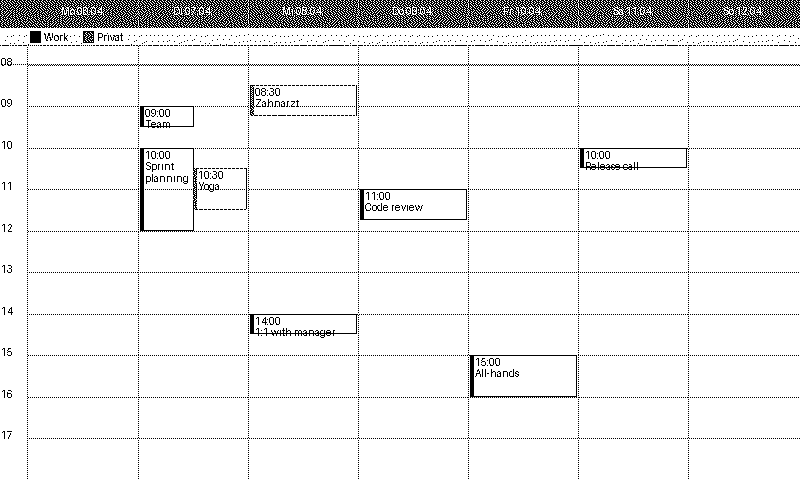
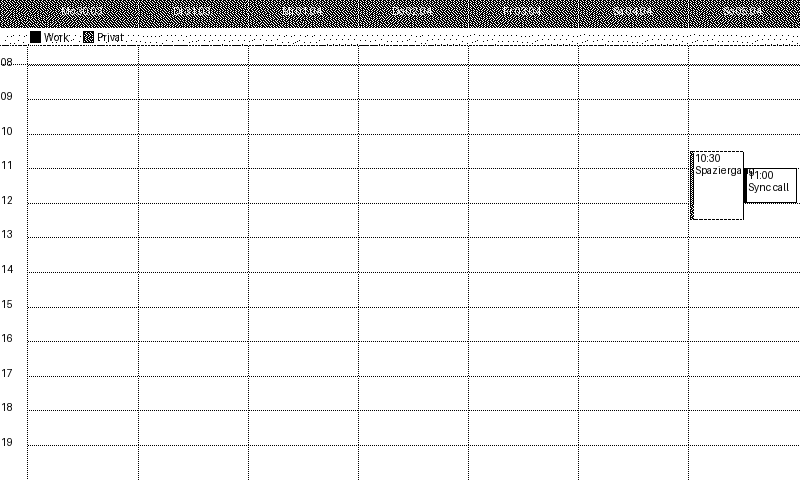
update drawing of text and events on top of background

diff --git a/app/renderer.py b/app/renderer.py
@@ -80,10 +80,10 @@ def _font(size: int, bold: bool = False) -> ImageFont.FreeTypeFont:
             return ImageFont.truetype(path, size)
     return ImageFont.load_default()
 
-FONT_DAY    = _font(11, bold=True)
-FONT_EVENT  = _font(10)
-FONT_TIME   = _font(9)
-FONT_LEGEND = _font(9)
+FONT_DAY    = _font(12, bold=True)
+FONT_EVENT  = _font(10, bold=True)
+FONT_TIME   = _font(10)
+FONT_LEGEND = _font(10)
 
 DAY_NAMES = ["Mo", "Di", "Mi", "Do", "Fr", "Sa", "So"]
 
@@ -161,19 +161,24 @@ def _draw_header(
     layout: _Layout,
     days: list[date],
     today: date,
+    text_pass: bool = False,
 ) -> None:
-    draw.rectangle([0, 0, layout.width, HEADER_H - 1], fill=DGREY)
-    for col, day in enumerate(days):
-        x0 = TIME_AXIS_W + col * layout.col_w
-        x1 = x0 + layout.col_w - 1
-        if day == today and layout.today_highlight:
-            draw.rectangle([x0, HEADER_H, x1, layout.height - 1], fill=LGREY)
-            draw.rectangle([x0, HEADER_H, x1, layout.height - 1], outline=MGREY, width=1)
-        if col > 0:
-            draw.line([x0, 0, x0, layout.height], fill=MGREY, width=1)
-        label = f"{DAY_NAMES[day.weekday()]} {day.day:02d}.{day.month:02d}."
-        tw    = draw.textlength(label, font=FONT_DAY)
-        draw.text((x0 + (layout.col_w - tw) / 2, 5), label, font=FONT_DAY, fill=WHITE)
+    if not text_pass:
+        draw.rectangle([0, 0, layout.width, HEADER_H - 1], fill=DGREY)
+        for col, day in enumerate(days):
+            x0 = TIME_AXIS_W + col * layout.col_w
+            x1 = x0 + layout.col_w - 1
+            if day == today and layout.today_highlight:
+                draw.rectangle([x0, HEADER_H, x1, layout.height - 1], fill=LGREY)
+                draw.rectangle([x0, HEADER_H, x1, layout.height - 1], outline=MGREY, width=1)
+            if col > 0:
+                draw.line([x0, 0, x0, layout.height], fill=MGREY, width=1)
+    else:
+        for col, day in enumerate(days):
+            x0    = TIME_AXIS_W + col * layout.col_w
+            label = f"{DAY_NAMES[day.weekday()]} {day.day:02d}.{day.month:02d}."
+            tw    = draw.textlength(label, font=FONT_DAY)
+            draw.text((x0 + (layout.col_w - tw) / 2, 5), label, font=FONT_DAY, fill=WHITE)
 
 
 def _draw_legend(
@@ -181,18 +186,23 @@ def _draw_legend(
     layout: _Layout,
     events_by_cal: dict[str, tuple[str, list[CalEvent]]],
     fill_map: dict[str, int],
+    text_pass: bool = False,
 ) -> None:
-    draw.rectangle([0, HEADER_H, layout.width, HEADER_H + LEGEND_H - 1], fill=245)
-    draw.line([0, HEADER_H + LEGEND_H - 1, layout.width, HEADER_H + LEGEND_H - 1],
-              fill=MGREY, width=1)
     lx = TIME_AXIS_W + PADDING
-    for cal_name, (color, _) in events_by_cal.items():
-        fill = fill_map.get(color, BLACK)
-        draw.rectangle([lx, HEADER_H + 3, lx + 10, HEADER_H + LEGEND_H - 4],
-                       fill=fill, outline=BLACK)
-        lx += 14
-        draw.text((lx, HEADER_H + 3), cal_name, font=FONT_LEGEND, fill=BLACK)
-        lx += int(draw.textlength(cal_name, font=FONT_LEGEND)) + 14
+    if not text_pass:
+        draw.rectangle([0, HEADER_H, layout.width, HEADER_H + LEGEND_H - 1], fill=245)
+        draw.line([0, HEADER_H + LEGEND_H - 1, layout.width, HEADER_H + LEGEND_H - 1],
+                  fill=MGREY, width=1)
+        for cal_name, (color, _) in events_by_cal.items():
+            fill = fill_map.get(color, BLACK)
+            draw.rectangle([lx, HEADER_H + 3, lx + 10, HEADER_H + LEGEND_H - 4],
+                           fill=fill, outline=BLACK)
+            lx += 14 + int(draw.textlength(cal_name, font=FONT_LEGEND)) + 14
+    else:
+        for cal_name, (color, _) in events_by_cal.items():
+            lx += 14
+            draw.text((lx, HEADER_H + 3), cal_name, font=FONT_LEGEND, fill=BLACK)
+            lx += int(draw.textlength(cal_name, font=FONT_LEGEND)) + 14
 
 
 def _draw_allday_strip(
@@ -200,33 +210,40 @@ def _draw_allday_strip(
     layout: _Layout,
     allday_assignments: list[tuple[CalEvent, int, int, int]],
     fill_map: dict[str, int],
+    text_pass: bool = False,
 ) -> None:
     strip_h = layout.allday_rows * ALLDAY_ROW_H
-    draw.line([TIME_AXIS_W - 1, layout.allday_top, TIME_AXIS_W - 1, layout.height],
-              fill=MGREY, width=1)
-    draw.line([0, layout.allday_top + strip_h, layout.width, layout.allday_top + strip_h],
-              fill=MGREY, width=1)
+    if not text_pass:
+        draw.line([TIME_AXIS_W - 1, layout.allday_top, TIME_AXIS_W - 1, layout.height],
+                  fill=MGREY, width=1)
+        draw.line([0, layout.allday_top + strip_h, layout.width, layout.allday_top + strip_h],
+                  fill=MGREY, width=1)
+        for ev, first_col, last_col, row in allday_assignments:
+            y0   = layout.allday_top + row * ALLDAY_ROW_H + 1
+            y1   = y0 + ALLDAY_ROW_H - 2
+            x0   = TIME_AXIS_W + first_col * layout.col_w + PADDING
+            x1   = TIME_AXIS_W + (last_col + 1) * layout.col_w - PADDING
+            fill = fill_map.get(ev.color, BLACK)
+            draw.rectangle([x0, y0, x1, y1], fill=WHITE, outline=BLACK)
+            draw.rectangle([x0, y0, x0 + 3, y1], fill=fill)
+    else:
+        for ev, first_col, last_col, row in allday_assignments:
+            y0  = layout.allday_top + row * ALLDAY_ROW_H + 1
+            x0  = TIME_AXIS_W + first_col * layout.col_w + PADDING
+            x1  = TIME_AXIS_W + (last_col + 1) * layout.col_w - PADDING
+            lbl = _truncate(ev.summary, x1 - x0 - 6, FONT_EVENT, draw)
+            draw.text((x0 + 6, y0 + 2), lbl, font=FONT_EVENT, fill=BLACK)
 
-    for ev, first_col, last_col, row in allday_assignments:
-        y0   = layout.allday_top + row * ALLDAY_ROW_H + 1
-        y1   = y0 + ALLDAY_ROW_H - 2
-        x0   = TIME_AXIS_W + first_col * layout.col_w + PADDING
-        x1   = TIME_AXIS_W + (last_col + 1) * layout.col_w - PADDING
-        fill = fill_map.get(ev.color, BLACK)
-        # Stripe style: outline + left color bar (consistent with timed events)
-        draw.rectangle([x0, y0, x1, y1], outline=BLACK)
-        draw.rectangle([x0, y0, x0 + 3, y1], fill=fill)
-        lbl = _truncate(ev.summary, x1 - x0 - 6, FONT_EVENT, draw)
-        draw.text((x0 + 6, y0 + 2), lbl, font=FONT_EVENT, fill=BLACK)
 
-
-def _draw_time_axis(draw: ImageDraw.ImageDraw, layout: _Layout) -> None:
+def _draw_time_axis(draw: ImageDraw.ImageDraw, layout: _Layout, text_pass: bool = False) -> None:
     for h in range(layout.time_start_hour, min(layout.time_end_hour + 1, 25)):
         y = layout.grid_top + int((h - layout.time_start_hour) * layout.px_per_hour)
         if y >= layout.height:
             break
-        draw.line([TIME_AXIS_W, y, layout.width, y], fill=MGREY, width=1)
-        draw.text((1, y - 9), f"{h:02d}", font=FONT_TIME, fill=BLACK)
+        if not text_pass:
+            draw.line([TIME_AXIS_W, y, layout.width, y], fill=MGREY, width=1)
+        else:
+            draw.text((1, y - 9), f"{h:02d}", font=FONT_TIME, fill=BLACK)
 
 
 def _draw_now_indicator(
@@ -257,6 +274,7 @@ def _draw_timed_events(
     layout: _Layout,
     day_events: dict[int, list[CalEvent]],
     fill_map: dict[str, int],
+    text_pass: bool = False,
 ) -> None:
     for col, evs in day_events.items():
         col_x0 = TIME_AXIS_W + col * layout.col_w + PADDING
@@ -274,7 +292,8 @@ def _draw_timed_events(
             y1 = layout.grid_top + int((vis_end   - layout.time_start_hour) * layout.px_per_hour) - 1
             if y1 - y0 < EVENT_MIN_H:
                 y1 = y0 + EVENT_MIN_H
-            _draw_timed_block(draw, ev, x0, y0, y1, lw, fill_map.get(ev.color, BLACK))
+            _draw_timed_block(draw, ev, x0, y0, y1, lw, fill_map.get(ev.color, BLACK),
+                              text_pass=text_pass)
 
 
 # ── Core renderer ─────────────────────────────────────────────────────────────
@@ -312,17 +331,28 @@ def render_days(
                                         allday_rows)
     today               = date.today()
 
+    # Pass 1: graphics only (fills, lines, outlines) — will be dithered
     img  = Image.new("L", (width, height), WHITE)
     draw = ImageDraw.Draw(img)
+    _draw_header(draw, layout, days, today, text_pass=False)
+    _draw_legend(draw, layout, events_by_cal, fill_map, text_pass=False)
+    _draw_allday_strip(draw, layout, allday_assignments, fill_map, text_pass=False)
+    _draw_time_axis(draw, layout, text_pass=False)
+    _draw_now_indicator(draw, layout, days, today)
+    _draw_timed_events(draw, layout, timed_events, fill_map, text_pass=False)
 
-    _draw_header(draw, layout, days, today)
-    _draw_legend(draw, layout, events_by_cal, fill_map)
-    _draw_allday_strip(draw, layout, allday_assignments, fill_map)
-    _draw_time_axis(draw, layout)
-    _draw_now_indicator(draw, layout, days, today)   # drawn before events
-    _draw_timed_events(draw, layout, timed_events, fill_map)  # events on top
+    # Dither graphics; text is drawn after so anti-aliased edges are never dithered
+    img  = img.convert("1", dither=Image.Dither.FLOYDSTEINBERG).convert("L")
+    draw = ImageDraw.Draw(img)
 
-    return img.convert("1", dither=Image.Dither.FLOYDSTEINBERG).convert("L")
+    # Pass 2: text only — drawn on clean 1-bit result
+    _draw_header(draw, layout, days, today, text_pass=True)
+    _draw_legend(draw, layout, events_by_cal, fill_map, text_pass=True)
+    _draw_allday_strip(draw, layout, allday_assignments, fill_map, text_pass=True)
+    _draw_time_axis(draw, layout, text_pass=True)
+    _draw_timed_events(draw, layout, timed_events, fill_map, text_pass=True)
+
+    return img
 
 
 # ── Public view functions ─────────────────────────────────────────────────────
@@ -394,10 +424,13 @@ def _wrap_text(text: str, max_px: int, font: ImageFont.FreeTypeFont,
 
 
 def _draw_timed_block(draw: ImageDraw.ImageDraw, ev: CalEvent,
-                      x: int, y0: int, y1: int, w: int, fill: int) -> None:
+                      x: int, y0: int, y1: int, w: int, fill: int,
+                      text_pass: bool = False) -> None:
     """Draw a timed event block spanning y0→y1 with wrapped text."""
-    draw.rectangle([x, y0, x + w, y1], outline=fill)
-    draw.rectangle([x, y0, x + 3, y1], fill=fill)      # color bar on left
+    if not text_pass:
+        draw.rectangle([x, y0, x + w, y1], fill=WHITE, outline=fill)
+        draw.rectangle([x, y0, x + 3, y1], fill=fill)      # color bar on left
+        return
 
     block_h = y1 - y0
     if block_h < 12:
@@ -406,8 +439,8 @@ def _draw_timed_block(draw: ImageDraw.ImageDraw, ev: CalEvent,
     tx     = x + 5
     tw     = w - 9      # usable text width (past bar + right padding)
     ty     = y0 + 1
-    lh_sm  = 11         # FONT_TIME  (size 9)  line height
-    lh_ev  = 12         # FONT_EVENT (size 10) line height
+    lh_sm  = 12         # FONT_TIME  (size 10) line height
+    lh_ev  = 13         # FONT_EVENT (size 10 bold) line height
 
     # Line 1: time
     draw.text((tx, ty), ev.start.strftime("%H:%M"), font=FONT_TIME, fill=BLACK)
